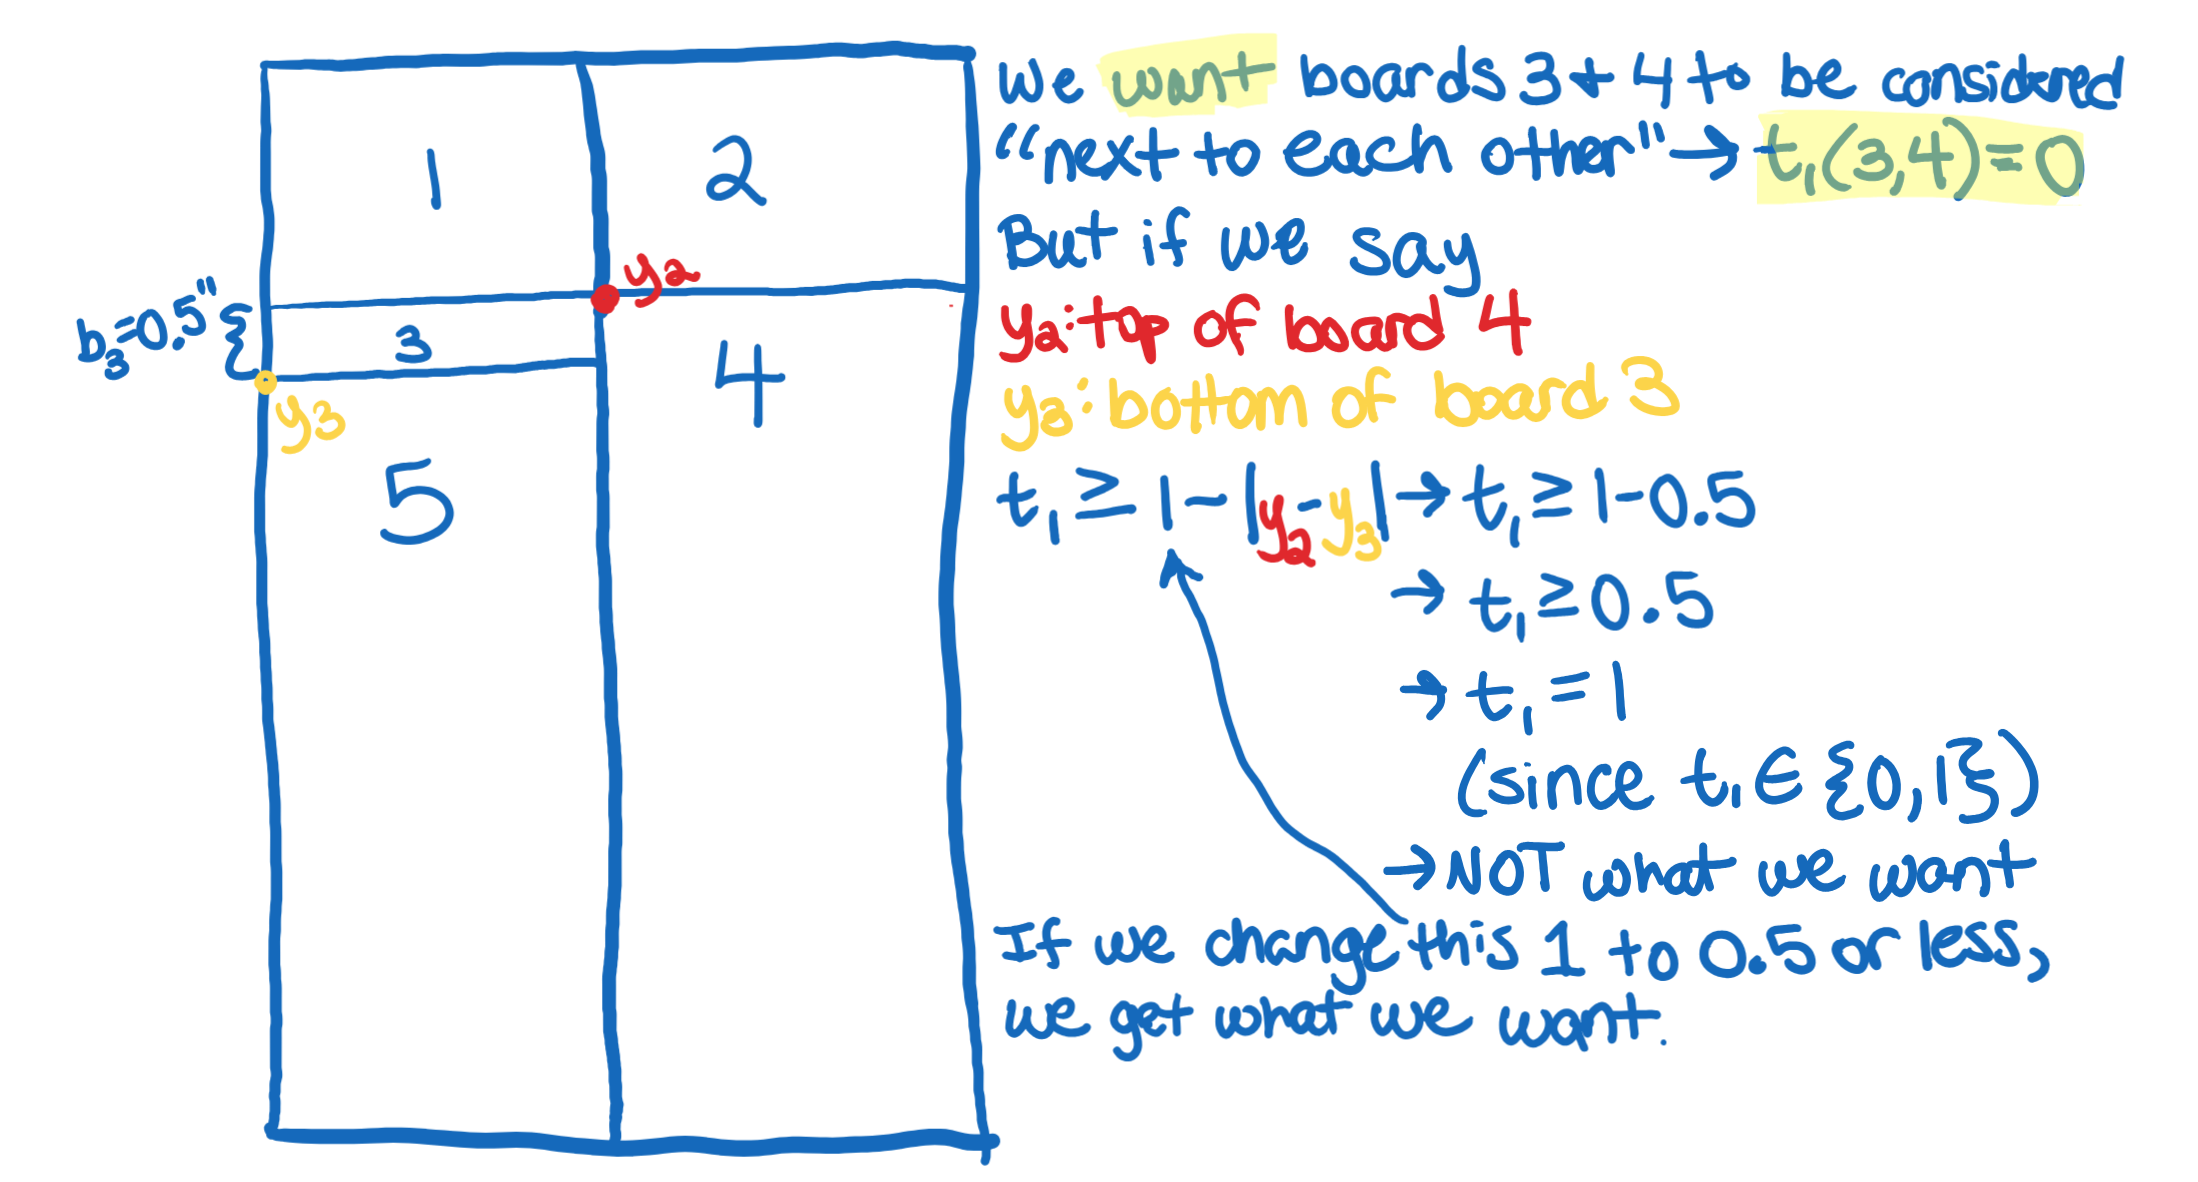
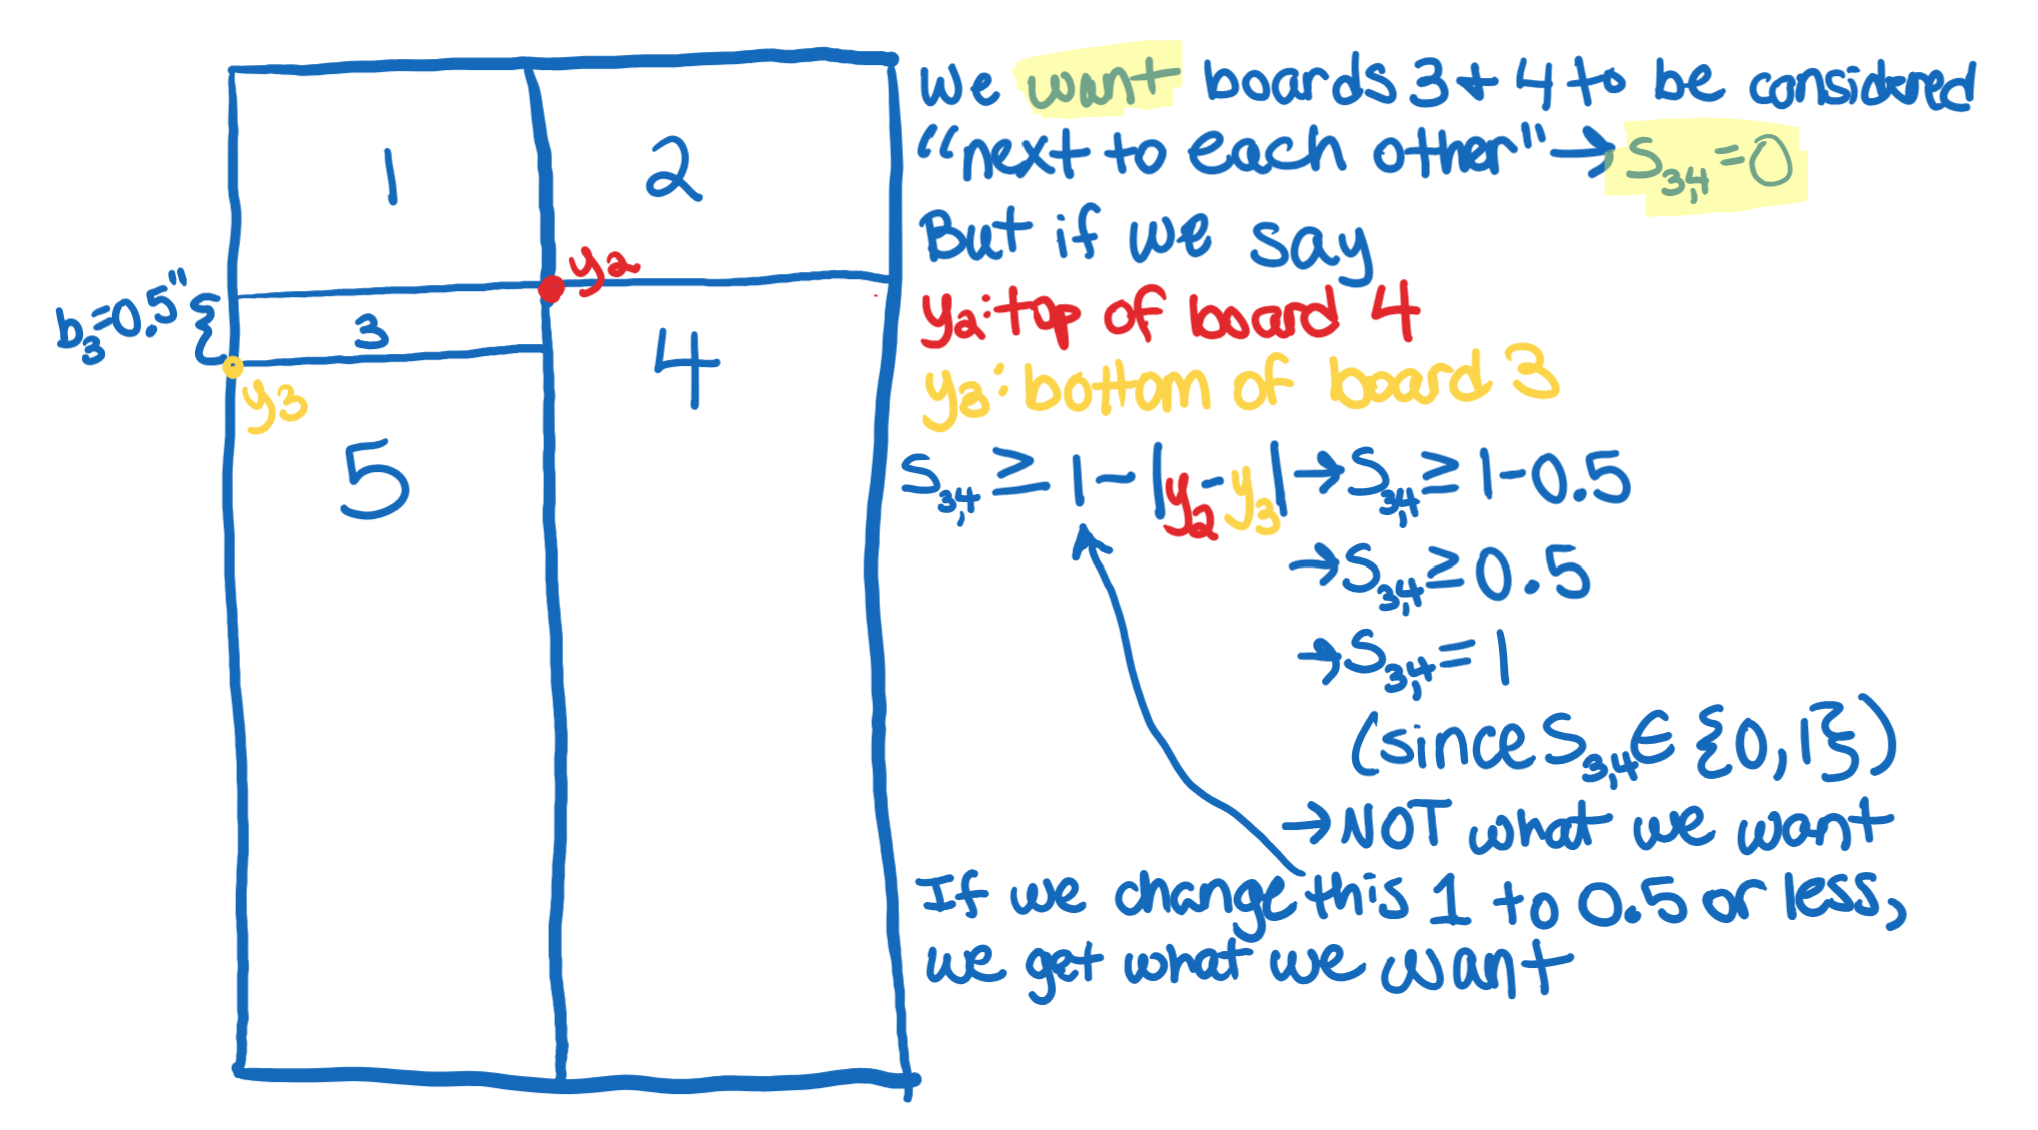
update t1 to sik

diff --git a/README.md b/README.md
@@ -159,72 +159,78 @@ $"y_2" = y_k \forall k \neq i \in {0-n}$
 $"y_3" = y_i + (1-r_i) \times l_i + r_i \times w_i \forall i \in {0-n}$  
 $"y_4" = y_k + (1-r_k) \times l_k + r_k \times w_k \forall k \neq i \in {0-n}$  
 
-Let's use $t$ to represent "NOT next to each other", where $t=t_1 + t_2$ and $t_1$ and $t_2$ represent scenarios 1 and 2, respectively, from the photo above.  
+Let's use $v$ to represent "NOT next to each other", where $v=s + t$, and $s$ and $t$ represent scenarios 1 and 2, respectively, from the photo above:  
 
-First, we know we should constrain $t_1$ to be 0 or 1:  
+> $s_{ik}:$ {0,1} board $i$ is NOT next to board $k$ because board $i$ is ABOVE board $k$
+> $t_{ik}:$ {0,1} board $i$ is NOT next to board $k$ because board $i$ is BELOW board $k$
+> $v_{ik}:$ {0,1} board $i$ is NOT next to board $k$
+
 > **Constraint 4a:**\
-> $t_1 \in {0,1}$  
+> $v_{ik} = s_{ik} + t_{ik}$   
+
+We know we should constrain $s_{ik}$ to be 0 or 1:  
+> **Constraint 4b:**\
+> $s_{ik} \in {0,1}$  
 
 We also want:  
-$`t_1 = \begin{cases} 1 & \text{if } y_2 \geq y_3 \\ 0 & \text{if } y_2 \lt y_3\end{cases}`$  
+$`s_{ik} = \begin{cases} 1 & \text{if } y_2 \geq y_3 \\ 0 & \text{if } y_2 \lt y_3\end{cases}`$  
 
 Which can be rewritten as:  
-$`t_1 = \begin{cases} 1 & \text{if } \frac{y_2}{y_3} \geq 1 \\ 0 & \text{if } \frac{y_2}{y_3} \lt 1\end{cases}`$  
+$`s_{ik} = \begin{cases} 1 & \text{if } \frac{y_2}{y_3} \geq 1 \\ 0 & \text{if } \frac{y_2}{y_3} \lt 1\end{cases}`$  
 
 Try:  
-$t_1 \leq \frac{y_2}{y_3}$  
+$s_{ik} \leq \frac{y_2}{y_3}$  
 
 Does this accomplish what we want?  
-$`t_1 = \begin{cases} 0 & \text{if } y_2 \lt y_3 \text{ as desired}\\ 0,1 & \text{if } y_2 \geq y_3 \text{not restrictive enough, combine with another constraint?}\end{cases}`$  
+$`s_{ik} = \begin{cases} 0 & \text{if } y_2 \lt y_3 \text{ as desired}\\ 0,1 & \text{if } y_2 \geq y_3 \text{not restrictive enough, combine with another constraint?}\end{cases}`$  
 
 BUT WAIT: $y_3$ is a non-negative decimal number, and could be equal to zero, which would result in the fraction above having a denominator of zero. Since $y_3$ can never be negative, we can remedy this by simply adding 1 to the numerator and denominator:  
 
-$t_1 \leq \frac{y_2 + 1}{y_3 + 1}$  
+$s_{ik} \leq \frac{y_2 + 1}{y_3 + 1}$  
 Replacing $y_2$ and $y_3$ with their definitions above, we get:  
 
-> **Constraint 4b:**\
-> $t_1 \leq \frac{y_k + 1}{y_i + (1-r_i) \times l_i + r_i \times w_i + 1} \forall i \in {0-n}, k \neq i \in {0-n}$  
+> **Constraint 4c:**\
+> $s_{ik} \leq \frac{y_k + 1}{y_i + (1-r_i) \times l_i + r_i \times w_i + 1} \forall i \in {0-n}, k \neq i \in {0-n}$  
 
-What additional constraint can we create to force $t_1 = 1$ when $\frac{y_2}{y_3} \geq 1$?  
+What additional constraint can we create to force $s_{ik} = 1$ when $\frac{y_2}{y_3} \geq 1$?  
 
 Try:
-$t_1 \geq y_2 - y_3$    
+$s_{ik} \geq y_2 - y_3$    
 
 Does this accomplish what we want?  
-$`t_1 = \begin{cases} 1 & \text{if } y_2 \gt y_3 \text{ as desired}\\ 0,1 & \text{if } y_2 = y_3 \text{not restrictive enough, combine with another constraint?}\\ 0,1 & \text{if } y_2 \lt y_3 \text{not restrictive enough, but works when combined with constraint 4b}\end{cases}`$  
+$`s_{ik} = \begin{cases} 1 & \text{if } y_2 \gt y_3 \text{ as desired}\\ 0,1 & \text{if } y_2 = y_3 \text{not restrictive enough, combine with another constraint?}\\ 0,1 & \text{if } y_2 \lt y_3 \text{not restrictive enough, but works when combined with constraint 4b}\end{cases}`$  
 
 Let's use it and try to come up with another constraint to handle the case when $y_2 = y_3$
-$t_1 \geq y_2 - y_3$ 
+$s_{ik} \geq y_2 - y_3$ 
 Replacing $y_2$ and $y_3$ with their definitions above, we get: 
 
-> **Constraint 4c:**\
-> $t_1 \geq y_k - (y_i + (1-r_i) \times l_i + r_i \times w_i) \forall i \in {0-n}, k \neq i \in {0-n}$  
+> **Constraint 4d:**\
+> $s_{ik} \geq y_k - (y_i + (1-r_i) \times l_i + r_i \times w_i) \forall i \in {0-n}, k \neq i \in {0-n}$  
 
-How do we constrain $t_1 = 0$ when $y_2 = y_3$?
+How do we constrain $s_{ik} = 0$ when $y_2 = y_3$?
 Try:  
-$t_1 \geq 1 - |y_2 - y_3|$  
+$s_{ik} \geq 1 - |y_2 - y_3|$  
 
 Does this accomplish what we want?  
-$`t_1 = \begin{cases} 1 & \text{if } y_2 = y_3 \text{ as desired}\\ 1 & \text{if } y_2 - y_3 = 0.5\text{ NOT what we want}\end{cases}`$  
+$`s_{ik} = \begin{cases} 1 & \text{if } y_2 = y_3 \text{ as desired}\\ 1 & \text{if } y_2 - y_3 = 0.5\text{ NOT what we want}\end{cases}`$  
 
-We only want $t_1=1$ when $y_2-y_3$ is 0 (or very close to 0), not just when it's less than 1. Consider this example:  
+We only want $s_{ik}=1$ when $y_2-y_3$ is 0 (or very close to 0), not just when it's less than 1. Consider this example:  
 
 ![](./images/constr4d.png)  
 
 We need to change the "1" on the righthand side of the constraint to be some number smaller than what we expect to be the minimum width of all boards in the BOM. Let's say $\frac{1}{100}$:
 
-$t_1 \geq \frac{1}{100} - |y_2 - y_3|$  
+$s_{ik} \geq \frac{1}{100} - |y_2 - y_3|$  
 Replacing $y_2$ and $y_3$ with their definitions above, we get: 
 
-> **Constraint 4d:**\
-> $t_1 \geq \frac{1}{100} - |y_k - (y_i + (1-r_i) \times l_i + r_i \times w_i)|  \forall i \in {0-n}, k \neq i \in {0-n} $  
+> **Constraint 4e:**\
+> $s_{ik} \geq \frac{1}{100} - |y_k - (y_i + (1-r_i) \times l_i + r_i \times w_i)|  \forall i \in {0-n}, k \neq i \in {0-n} $  
 
 This is the motivation for assumption 6, that the minimum desired width of any BOM item will be greater than $\frac{1}{100}$ units.  
 
 TO DO: 
-WRITE CONSTRAINTS FOR T2 (SCENARIO 2 IN PIC OUTLINING WAYS 2 BOARDS ARE NOT NEXT TO EACH OTHER)  
-WRITE CONSTRAINT T = T1 + T2  
-REWRITE HANDWRITTEN CONSTRAINT IN CONSTR3B.PNG, INCORPORATING T INTO IT. 
+WRITE CONSTRAINTS FOR t_ik (SCENARIO 2 IN PIC OUTLINING WAYS 2 BOARDS ARE NOT NEXT TO EACH OTHER)  
+REWRITE HANDWRITTEN CONSTRAINT IN CONSTR3B.PNG, INCORPORATING (1-v_ik) INTO IT. 
 
 ##### BOM items' height cannot exceed height of stock board:
 
